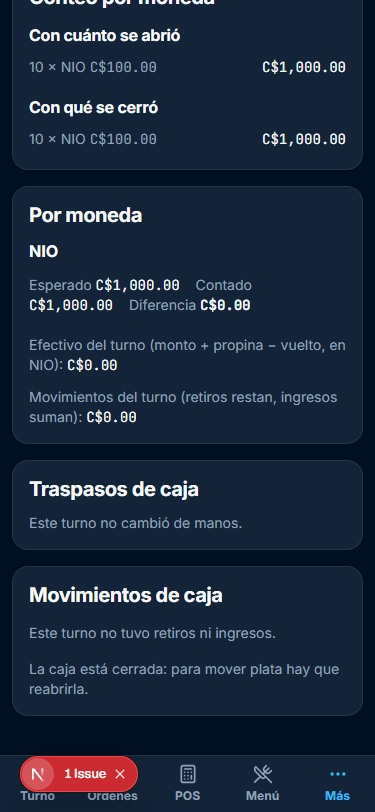
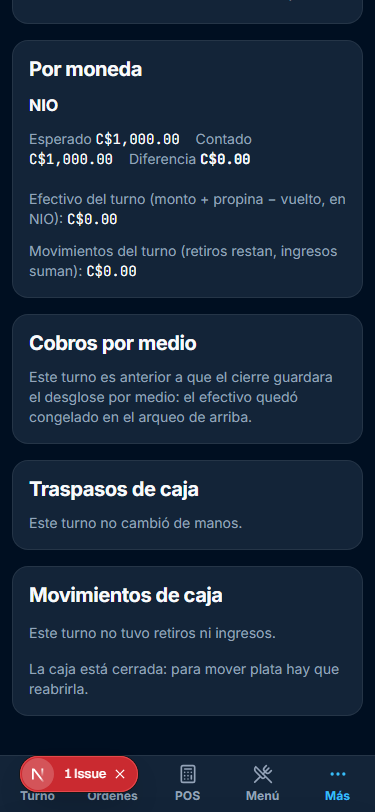
feat(caja): el cierre congela el desglose por medio de pago (tarea 1.2)
El cierre guardaba **solo el efectivo**: la plata que entro por tarjeta y por
transferencia no quedaba en ningun lado del turno (habia que recomputarla de los
cobros, y el mensaje de cierre lo hacia en cada envio).

Shift ahora guarda, con el resto del arqueo y congelado al cerrar (migracion
aditiva 20260918130000): cardSalesAmount, 	ransferSalesAmount,
otherSalesAmount y 	ipsAmount. Los numeros salen de summarizeShiftPayments,
que ya se calculaba con los **mismos** cobros del arqueo: una sola fuente, y el
mensaje de Telegram y el detalle del cierre no pueden discrepar.

El detalle del cierre lo muestra en un bloque «Cobros por medio» (efectivo,
tarjeta, transferencia, otras formas, propinas y total). Un turno cerrado **antes**
de esto lo dice con palabras: mostrar ceros afirmaria que no entro nada por
tarjeta, que es distinto de «no se guardo». El bloque vive en su propio componente
(payment-mix-panel.tsx) con su test, y la pagina del detalle queda en 396 lineas
(tenia un techo de 400).

Verificacion: 2583 tests unitarios, contratos 50/50, lint, typecheck, build,
build:webpack y security:secrets en verde; prisma migrate diff sin drift;
capturas a 375/1280 (	area-1-2-cobros-por-medio-*.png).

diff --git a/src/app/(admin)/admin/cash/payment-mix-panel.tsx b/src/app/(admin)/admin/cash/payment-mix-panel.tsx
@@ -1,0 +1,110 @@
+import { formatCurrency } from "@/shared/lib/format-currency";
+
+/**
+ * Tarea 1.2 del roadmap + decisión del owner (2026-09-17) — el **desglose por medio de pago** del turno,
+ * en el detalle del cierre.
+ *
+ * El arqueo dice si el cajón cuadró; esto dice por dónde entró la otra plata del día (tarjeta y
+ * transferencia, que no pasan por el cajón) y cuánto fueron las propinas. Son **números congelados al
+ * cerrar**: no se recalculan con los cobros de hoy, porque un cierre es un documento.
+ *
+ * Un turno cerrado antes de que esto se persistiera no tiene el desglose: se dice con palabras en vez de
+ * mostrar ceros, que afirmarían que no entró nada por tarjeta.
+ */
+export type PaymentMix = { cash: number; card: number; transfer: number; other: number; tips: number };
+
+/**
+ * El desglose del turno, o `null` si el cierre es anterior a que se guardara.
+ *
+ * La señal de «no hay desglose» es la **tarjeta**: un cierre viejo no tiene ninguna de las cuatro
+ * columnas, y mostrar ceros diría que no entró nada por tarjeta. Vive acá (y no en la página) para que la
+ * decisión se pruebe sola y la página del detalle no crezca.
+ */
+export function paymentMixOf(shift: {
+  cashSalesAmount?: number | null;
+  cardSalesAmount?: number | null;
+  transferSalesAmount?: number | null;
+  otherSalesAmount?: number | null;
+  tipsAmount?: number | null;
+}): PaymentMix | null {
+  if (shift.cardSalesAmount === null || shift.cardSalesAmount === undefined) return null;
+
+  return {
+    cash: shift.cashSalesAmount ?? 0,
+    card: shift.cardSalesAmount,
+    transfer: shift.transferSalesAmount ?? 0,
+    other: shift.otherSalesAmount ?? 0,
+    tips: shift.tipsAmount ?? 0,
+  };
+}
+
+export default function PaymentMixPanel({
+  mix,
+  currencySymbol,
+  locale,
+}: {
+  /** `null` = el turno es anterior al desglose por medio. */
+  mix: PaymentMix | null;
+  currencySymbol: string;
+  locale: string;
+}) {
+  const currency = { symbol: currencySymbol, locale };
+  const format = (amount: number) => formatCurrency(amount, currency);
+
+  return (
+    <section
+      aria-label="Cobros por medio"
+      className="space-y-3 rounded-stitch-lg border border-line-subtle bg-surface-card p-4"
+    >
+      <h2 className="text-st-h2 text-ink">Cobros por medio</h2>
+
+      {mix === null ? (
+        <p className="text-st-body text-ink-secondary">
+          Este turno es anterior a que el cierre guardara el desglose por medio: el efectivo quedó
+          congelado en el arqueo de arriba.
+        </p>
+      ) : (
+        <dl className="grid grid-cols-2 gap-3 sm:grid-cols-3">
+          <div>
+            <dt className="text-st-overline font-bold uppercase tracking-wider text-ink-muted">
+              Efectivo
+            </dt>
+            <dd className="font-mono text-st-body tabular-nums text-ink">{format(mix.cash)}</dd>
+          </div>
+          <div>
+            <dt className="text-st-overline font-bold uppercase tracking-wider text-ink-muted">
+              Tarjeta
+            </dt>
+            <dd className="font-mono text-st-body tabular-nums text-ink">{format(mix.card)}</dd>
+          </div>
+          <div>
+            <dt className="text-st-overline font-bold uppercase tracking-wider text-ink-muted">
+              Transferencia
+            </dt>
+            <dd className="font-mono text-st-body tabular-nums text-ink">{format(mix.transfer)}</dd>
+          </div>
+          <div>
+            <dt className="text-st-overline font-bold uppercase tracking-wider text-ink-muted">
+              Otras formas
+            </dt>
+            <dd className="font-mono text-st-body tabular-nums text-ink">{format(mix.other)}</dd>
+          </div>
+          <div>
+            <dt className="text-st-overline font-bold uppercase tracking-wider text-ink-muted">
+              Propinas
+            </dt>
+            <dd className="font-mono text-st-body tabular-nums text-ink">{format(mix.tips)}</dd>
+          </div>
+          <div>
+            <dt className="text-st-overline font-bold uppercase tracking-wider text-ink-muted">
+              Total cobrado
+            </dt>
+            <dd className="font-mono text-st-body tabular-nums font-semibold text-ink">
+              {format(mix.cash + mix.card + mix.transfer + mix.other)}
+            </dd>
+          </div>
+        </dl>
+      )}
+    </section>
+  );
+}

diff --git a/src/modules/orders/features/shift/shift-features.test.ts b/src/modules/orders/features/shift/shift-features.test.ts
@@ -128,7 +128,7 @@ function seedPayment(
   amount: number,
   tip: number,
   createdAt: string,
-  options: { method?: "cash" | "card"; currency?: string | null; changeAmount?: number } = {},
+  options: { method?: "cash" | "card" | "transfer" | "other"; currency?: string | null; changeAmount?: number } = {},
 ) {
   const orderId = `ord_${paymentRepository.payments.length + 1}`;
   paymentRepository.seedOrderLocation(orderId, "loc_principal");
@@ -307,8 +307,44 @@ describe("closeShift", () => {
     expect(result.data?.difference).toBe(0);
   });
 
-  it("convierte los dólares y descuenta el vuelto (TASK-305)", async () => {
+  /**
+   * Tarea 1.2 del roadmap + decisión del owner (2026-09-17) — **el desglose por medio queda congelado**.
+   *
+   * El cierre solo guardaba el efectivo: la plata que entró por tarjeta y por transferencia no quedaba en
+   * ningún lado del turno, y el mensaje de cierre tenía que sacarla de los cobros cada vez. Ahora se
+   * persiste con el resto del arqueo (es un documento: lo que se guardó no se recalcula después).
+   */
+  it("congela el desglose por medio de pago al cerrar (tarea 1.2)", async () => {
     const deps = buildDeps();
+    const opened = await openShift(
+      { locationId: "loc_principal", userId: "user_01", openingAmount: 0 },
+      deps,
+    );
+    const openedAtMs = backdateOpen(opened.data.id, 60, deps.shiftRepository);
+    const enTurno = (segundos: number) => new Date(openedAtMs + segundos * 1000).toISOString();
+
+    seedPayment(deps.paymentRepository, 200, 0, enTurno(10));
+    seedPayment(deps.paymentRepository, 500, 0, enTurno(20), { method: "card" });
+    seedPayment(deps.paymentRepository, 300, 0, enTurno(30), { method: "transfer" });
+    seedPayment(deps.paymentRepository, 50, 25, enTurno(40), { method: "other" });
+
+    const result = await closeShift({ shiftId: opened.data.id, closingAmount: 200 }, deps);
+
+    expect(result.data).toMatchObject({
+      cashSalesAmount: 200,
+      cardSalesAmount: 500,
+      transferSalesAmount: 300,
+      // Otras formas: el monto más su propina (25), que es lo que el cliente pagó por esa vía.
+      otherSalesAmount: 75,
+      tipsAmount: 25,
+    });
+
+    // Y quedó **guardado**: leer el turno de nuevo devuelve lo mismo (no se recalcula con los cobros de hoy).
+    const leido = await deps.shiftRepository.findShiftById(opened.data.id);
+    expect(leido).toMatchObject({ cardSalesAmount: 500, transferSalesAmount: 300, tipsAmount: 25 });
+  });
+
+  it("convierte los dólares y descuenta el vuelto (TASK-305)", async () => {    const deps = buildDeps();
     const opened = await openShift(
       { locationId: "loc_principal", userId: "user_01", openingAmount: 0 },
       deps,

diff --git a/src/app/(admin)/admin/cash/payment-mix-panel.test.tsx b/src/app/(admin)/admin/cash/payment-mix-panel.test.tsx
@@ -1,0 +1,69 @@
+// @vitest-environment jsdom
+
+import { cleanup, render, screen } from "@testing-library/react";
+import { afterEach, describe, expect, it } from "vitest";
+
+import PaymentMixPanel, { paymentMixOf } from "./payment-mix-panel";
+
+/**
+ * Tarea 1.2 del roadmap (2026-09-17) — el desglose por medio en el detalle del cierre.
+ *
+ * Fija lo que el dueño lee: de dónde salió la plata del día (efectivo, tarjeta, transferencia, otras), las
+ * propinas y el total. Y que un turno **anterior** al desglose lo diga con palabras: mostrar ceros
+ * afirmaría que no entró nada por tarjeta, que es distinto de «no se guardó».
+ */
+
+const props = { currencySymbol: "C$", locale: "es-NI" };
+
+describe("PaymentMixPanel", () => {
+  afterEach(cleanup);
+
+  it("muestra cada medio con su monto y el total cobrado", () => {
+    render(
+      <PaymentMixPanel
+        mix={{ cash: 4000, card: 1500, transfer: 500, other: 0, tips: 120 }}
+        {...props}
+      />,
+    );
+
+    const panel = screen.getByRole("region", { name: "Cobros por medio" });
+
+    expect(panel.textContent).toContain("Efectivo");
+    expect(panel.textContent).toContain("C$4,000.00");
+    expect(panel.textContent).toContain("C$1,500.00");
+    expect(panel.textContent).toContain("C$500.00");
+    expect(panel.textContent).toContain("Propinas");
+    expect(panel.textContent).toContain("C$120.00");
+    // 4000 + 1500 + 500 + 0: las propinas ya están dentro de cada medio, no se suman dos veces.
+    expect(panel.textContent).toContain("C$6,000.00");
+  });
+
+  it("un turno sin el desglose guardado lo dice, en vez de mostrar ceros", () => {
+    render(<PaymentMixPanel mix={null} {...props} />);
+
+    const panel = screen.getByRole("region", { name: "Cobros por medio" });
+
+    expect(panel.textContent).toContain("anterior a que el cierre guardara el desglose");
+    expect(panel.textContent).not.toContain("C$0.00");
+  });
+});
+
+describe("paymentMixOf", () => {
+  it("arma el desglose con lo que quedó guardado al cerrar", () => {
+    expect(
+      paymentMixOf({
+        cashSalesAmount: 4000,
+        cardSalesAmount: 1500,
+        transferSalesAmount: 500,
+        otherSalesAmount: 0,
+        tipsAmount: 120,
+      }),
+    ).toEqual({ cash: 4000, card: 1500, transfer: 500, other: 0, tips: 120 });
+  });
+
+  it("un cierre viejo (sin desglose) no se completa con ceros", () => {
+    // El efectivo puede estar (se guardaba antes), pero sin la tarjeta no hay desglose que mostrar.
+    expect(paymentMixOf({ cashSalesAmount: 4000, cardSalesAmount: null })).toBeNull();
+    expect(paymentMixOf({ cashSalesAmount: 4000 })).toBeNull();
+  });
+});

diff --git a/src/modules/orders/adapters/prisma-shift-repository.ts b/src/modules/orders/adapters/prisma-shift-repository.ts
@@ -31,6 +31,10 @@ function mapShift(shift: {
   expectedAmount: Decimal | null;
   expectedByCurrency?: unknown;
   cashSalesAmount: Decimal | null;
+  cardSalesAmount?: Decimal | null;
+  transferSalesAmount?: Decimal | null;
+  otherSalesAmount?: Decimal | null;
+  tipsAmount?: Decimal | null;
   cashMovementsAmount?: Decimal | null;
   refundsAmount?: Decimal | null;
   difference: Decimal | null;
@@ -55,6 +59,11 @@ function mapShift(shift: {
     // Bloque 1.1/1.2: el arqueo congelado al cerrar, tal como se guardó.
     expectedByCurrency: toExpectedByCurrency(shift.expectedByCurrency),
     cashSalesAmount: decimalOrNull(shift.cashSalesAmount),
+    // Tarea 1.2: el desglose por medio, tal como quedó al cerrar.
+    cardSalesAmount: decimalOrNull(shift.cardSalesAmount ?? null),
+    transferSalesAmount: decimalOrNull(shift.transferSalesAmount ?? null),
+    otherSalesAmount: decimalOrNull(shift.otherSalesAmount ?? null),
+    tipsAmount: decimalOrNull(shift.tipsAmount ?? null),
     cashMovementsAmount: decimalOrNull(shift.cashMovementsAmount ?? null),
     refundsAmount: decimalOrNull(shift.refundsAmount ?? null),
     difference: decimalOrNull(shift.difference),
@@ -179,6 +188,10 @@ export class PrismaShiftRepository implements ShiftRepository {
         // detalle por moneda antes vivía solo en la respuesta y se perdía al recargar.
         expectedByCurrency: input.expectedByCurrency,
         cashSalesAmount: input.cashSalesAmount,
+    cardSalesAmount: input.cardSalesAmount ?? 0,
+    transferSalesAmount: input.transferSalesAmount ?? 0,
+    otherSalesAmount: input.otherSalesAmount ?? 0,
+    tipsAmount: input.tipsAmount ?? 0,
         cashMovementsAmount: input.cashMovementsAmount ?? 0,
         refundsAmount: input.refundsAmount ?? 0,
         difference:

diff --git a/src/modules/orders/adapters/in-memory-shift-repository.ts b/src/modules/orders/adapters/in-memory-shift-repository.ts
@@ -46,6 +46,10 @@ export class InMemoryShiftRepository implements ShiftRepository {
       expectedAmount: null,
       expectedByCurrency: null,
       cashSalesAmount: null,
+      cardSalesAmount: null,
+      transferSalesAmount: null,
+      otherSalesAmount: null,
+      tipsAmount: null,
       cashMovementsAmount: null,
       refundsAmount: null,
       difference: null,
@@ -90,6 +94,10 @@ export class InMemoryShiftRepository implements ShiftRepository {
     // Bloque 1.1/1.2: el arqueo se congela al cerrar, no se recalcula al leer.
     shift.expectedByCurrency = { ...(input.expectedByCurrency ?? {}) };
     shift.cashSalesAmount = roundCurrency(input.cashSalesAmount ?? 0);
+    shift.cardSalesAmount = roundCurrency(input.cardSalesAmount ?? 0);
+    shift.transferSalesAmount = roundCurrency(input.transferSalesAmount ?? 0);
+    shift.otherSalesAmount = roundCurrency(input.otherSalesAmount ?? 0);
+    shift.tipsAmount = roundCurrency(input.tipsAmount ?? 0);
     shift.cashMovementsAmount = roundCurrency(input.cashMovementsAmount ?? 0);
     shift.refundsAmount = roundCurrency(input.refundsAmount ?? 0);
     shift.difference =

diff --git a/src/app/(admin)/admin/cash/history/[id]/page.tsx b/src/app/(admin)/admin/cash/history/[id]/page.tsx
@@ -16,6 +16,7 @@ import { buildShiftCloseSheet } from "@/shared/lib/shift-close-sheet";
 
 import { AdminPageHeader } from "../../../_components/admin-operational-ui";
 import CashMovementsPanel from "../../cash-movements-panel";
+import PaymentMixPanel, { paymentMixOf } from "../../payment-mix-panel";
 import ShiftCloseSheetButton from "../../shift-close-sheet-button";
 import {
   CASH_DIFFERENCE_LABEL,
@@ -353,6 +354,13 @@ export default async function AdminCashShiftDetailPage({
           </span>
         </p>
       </section>
+
+      {/* Tarea 1.2 del roadmap (2026-09-17): por dónde entró la plata del día, congelado al cerrar. */}
+      <PaymentMixPanel
+        mix={paymentMixOf(shift)}
+        currencySymbol={settings.currencySymbol}
+        locale={settings.locale}
+      />
 
       {/* Tarea 7 del brief (2026-09-17): los **traspasos** del turno (1.13). Un turno largo pasa por
           varias manos; quién recibió la caja y con cuánto queda asentado acá, también después de

diff --git a/src/modules/orders/domain/order.types.ts b/src/modules/orders/domain/order.types.ts
@@ -351,6 +351,15 @@ export type ShiftRecord = {
    */
   cashSalesAmount?: number | null;
   /**
+   * Tarea 1.2 del roadmap + decisión del owner (2026-09-17) — el **desglose por medio** del turno,
+   * congelado al cerrar: tarjeta, transferencia, otras formas y las propinas. `null` en los cierres
+   * viejos (antes de que se persistiera): la pantalla lo dice en vez de estimarlo.
+   */
+  cardSalesAmount?: number | null;
+  transferSalesAmount?: number | null;
+  otherSalesAmount?: number | null;
+  tipsAmount?: number | null;
+  /**
    * Bloque 2 del POS (Fase 2) — cuánto movieron los retiros e ingresos del turno, en la moneda del
    * negocio (retiro resta, ingreso suma). Congelado al cerrar.
    */

diff --git a/src/modules/orders/ports/shift-repository.ts b/src/modules/orders/ports/shift-repository.ts
@@ -40,6 +40,15 @@ export type CloseShiftInput = {
    */
   cashSalesAmount?: number;
   /**
+   * Tarea 1.2 del roadmap (2026-09-17) — el **desglose por medio** del turno, en la moneda del negocio.
+   * Misma nota que los anteriores: el caso de uso siempre los manda (`paymentMix` del arqueo).
+   */
+  cardSalesAmount?: number;
+  transferSalesAmount?: number;
+  otherSalesAmount?: number;
+  /** Propinas del turno (van dentro de cada medio; se guardan aparte como detalle). */
+  tipsAmount?: number;
+  /**
    * Bloque 2 del POS (Fase 2) — el neto de los movimientos del turno (retiros e ingresos) en la
    * moneda del negocio. Misma nota: el caso de uso siempre lo manda.
    */

diff --git a/src/modules/orders/features/shift/close-shift.ts b/src/modules/orders/features/shift/close-shift.ts
@@ -122,6 +122,11 @@ export async function closeShift(
     expectedAmount: arqueo.expectedAmount,
     expectedByCurrency: arqueo.expectedByCurrency,
     cashSalesAmount: arqueo.cashSalesAmount,
+    // Tarea 1.2 del roadmap: el desglose por medio se congela con el resto del arqueo (es un documento).
+    cardSalesAmount: arqueo.paymentMix.card,
+    transferSalesAmount: arqueo.paymentMix.transfer,
+    otherSalesAmount: arqueo.paymentMix.other,
+    tipsAmount: arqueo.paymentMix.tips,
     cashMovementsAmount: arqueo.cashMovementsAmount,
     refundsAmount: arqueo.refundsAmount,
     closingCounts: input.closingCounts ?? [],

diff --git a/ops/tasks/audit-ui/pos-fase2-status.md b/ops/tasks/audit-ui/pos-fase2-status.md
@@ -73,6 +73,7 @@
 | **Tarea 10 del brief** | **Conciliación de tarjeta y transferencia (11.1/11.2)**: dominio `payment-reconciliation.ts` (efectivo afuera; totales **por moneda**, sin convertir con la tasa de hoy; lo que no es tarjeta ni transferencia se informa aparte), `listReconciliationPayments` (día del negocio y local), `GET /api/admin/cash/reconciliation`, el CSV `payment-reconciliation-csv.ts` con la **referencia** del voucher al lado del monto, y el panel «Conciliación» en Caja del día con la descarga. Los primitivos del CSV se extrajeron a `shared/lib/csv.ts` (los comparten los dos exports) y bajar un archivo quedó en `shared/lib/download-file.ts` | este mismo commit | `tarea-10-conciliacion-*.png` |
 | **Bug de producción encontrado y arreglado en la tarea 10** | **Cobrar con tarjeta en el POS devolvía 400**: `registerPosSale` mandaba siempre el «con cuánto paga» al alta del pedido y `createOrder` rechaza ese campo cuando la forma declarada no es efectivo («El vuelto solo se calcula cuando pagás en efectivo»). Los tests del caso de uso no lo veían porque doblan `createPosOrder`; apareció cobrando con tarjeta de verdad para la conciliación. Ahora el monto solo viaja si el pedido declara efectivo (la cobertura del cobro se sigue midiendo igual) y hay un test que lo fija | `bfacc35` | — |
 | **Tarea 11 del brief** | **Idempotencia del cobro con UUID (12.1/12.2)**: la clave del intento vive con el borrador en el dispositivo (`pos-draft-storage` + `usePosDraft`), así que **sobrevive a la recarga** —antes se perdía justo cuando hacía falta—; `pos-sale-attempt.ts` genera y valida el UUID. El servidor, al reconocer el intento, **no registra los cobros otra vez** (registrarlos duplicaba la plata del arqueo), devuelve `reused` y la ruta responde 200; el POS avisa «ya estaba registrada: no se cobró de nuevo» | `df938ee` | (sin captura: el cambio visible es el aviso del reintento, cubierto por unit + E2E) |
+| **Tarea 1.2 del roadmap** (2026-09-17) | **Desglose por medio de pago al cerrar**: `Shift` guarda tarjeta, transferencia, otras formas y propinas (migración `20260918130000`), congeladas con el resto del arqueo desde `summarizeShiftPayments` (los **mismos** cobros del arqueo, sin recalcular). El detalle del cierre lo muestra en «Cobros por medio» y un cierre anterior al cambio lo dice con palabras en vez de mostrar ceros | este mismo commit | `tarea-1-2-cobros-por-medio-*.png` |
 | **Cierre de caja por evento** (decisiones del owner, 2026-09-17) | **Un mensaje por cada cierre, sin hora fija**: el evento `shift_closed` reemplaza al «resumen diario» (que nunca se disparó solo) y a la alerta suelta de diferencia; el toggle «Cierre de caja» nace **prendido** (migración `20260918120000`) y el grupo es **uno solo del dueño** para todas las sucursales. El mensaje sale con el formato que fijó el owner —sucursal, quién cerró, turno con duración, pedidos, efectivo/tarjeta/transferencia, total, propinas y diferencia («cuadra» o destacada con el motivo del cajero)— y el **desglose por método** sale de los mismos cobros del arqueo (`summarizeShiftPayments`: primera mitad de la tarea 1.2) | `8efe9fd` | **verificado en producción**: un cierre real a las 11:55 mandó el mensaje al grupo (`último envío` en la captura) |
 
 **Alertas Telegram — qué queda** (después de las decisiones del owner del 2026-09-17): **nada pendiente de
@@ -358,8 +359,7 @@ necesita el **monto** y el canal (hoy no hay notificación externa: `NOTIFICATIO
 **11 parciales** de 70 (**15,7 %**).
 
 ### Lo que EXISTE DIFERENTE
-
-- **1.2** — se congela el esperado **del cajón** (solo efectivo); no se persiste un resumen de ventas por método.
+- **1.2** — **cerrado** (2026-09-17): el turno congela el desglose por medio (tarjeta, transferencia, otras formas y propinas) y el detalle del cierre lo muestra.
 - **1.5** — hay resumen del día de **órdenes** (y un reporte diario por API sin local ni pagos), no de caja.
 - **4.1** — el enum tiene `transfer`/`mixed`/`other`; el POS y su payload aceptan solo `cash|card`.
 - **5.3** — recibo JPG sin logo ni datos fiscales, no PDF de factura.
